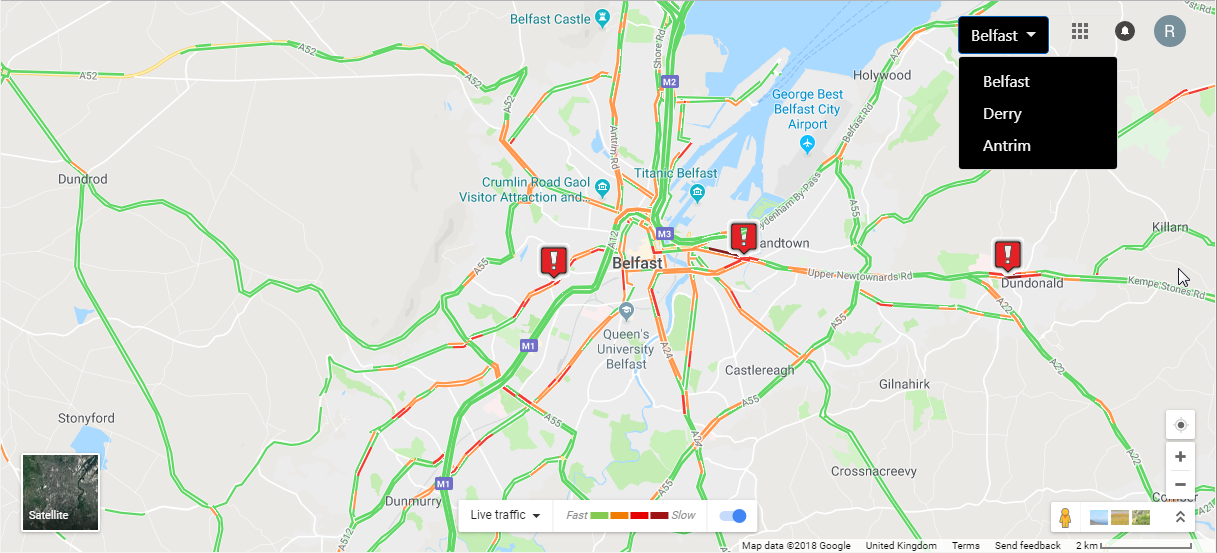
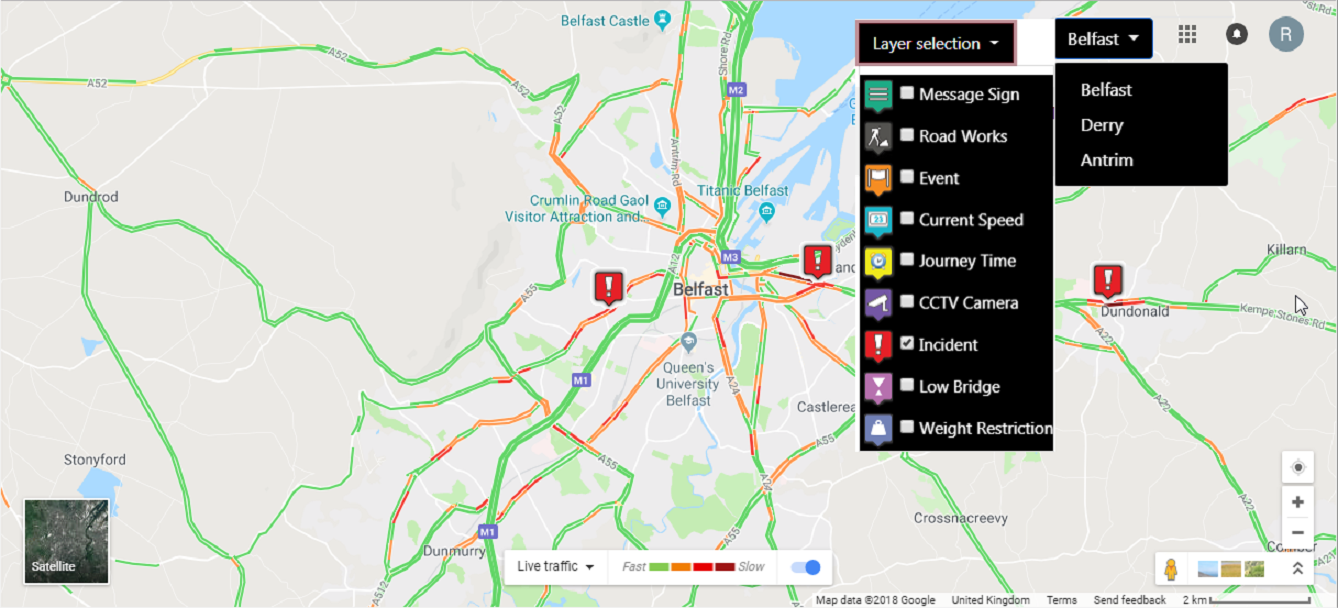
updated

diff --git a/_layouts/default.html b/_layouts/default.html
@@ -64,9 +64,9 @@
         
     <nav class="navbar navbar-expand-lg navbar-light bg-light" style="margin-bottom:1em">
         <a class="navbar-brand" href="index.html">
-            <span class="logo"><span class="primary-colour">traffic</span><span class="font-dark">watch</span></span>
+            <span class="logo"><span class="primary-colour">traffic</span><span class="font-dark">watch</span><span class="font-dark">NI</span></span>
             <br>
-            <span class="font-light">NORTHERN IRELAND</span>
+            <!--<span class="font-light">NORTHERN IRELAND</span>-->
         </a>
         <button class="navbar-toggler" type="button" data-toggle="collapse" data-target="#navbarNav" aria-controls="navbarNav" aria-expanded="false" aria-label="Toggle navigation">
             <span class="navbar-toggler-icon"></span>
@@ -76,51 +76,51 @@
             <li class="nav-item" style="width: 15%">
                 <a class="nav-link" href="index">
                     <i class="fas fa-home"></i>
-                    <h4 class="d-inline">Home</h4>
+                    <h4 class="">Home</h4>
                 </a>
             </li>
             <li class="nav-item" style="width: 15%">
                 <a class="nav-link" href="traffic-news">
                     <i class="fas fa-road"></i>
-                    <h4 class="d-inline">Traffic News</h4>
+                    <h4 class="">Traffic News</h4>
                 </a>
             </li>
             <li class="nav-item" style="width: 15%">
                 <a class="nav-link" href="cameras">
                     <i class="fas fa-camera"></i>
-                    <h4 class="d-inline">Cameras</h4>
+                    <h4 class="">Cameras</h4>
                 </a>
             </li>
             <li class="nav-item" style="width: 15%">
                 <a class="nav-link" href="emergency-news">
                     <i class="fas fa-bell"></i>
-                    <h4 class="d-inline">Emergency News</h4>
+                    <h4 class="">Emergency News</h4>
                 </a>
             </li>
             <li class="nav-item" style="width: 15%">
                 <a class="nav-link" href="roadworks-report">
                     <!--<i class="fas fa-calendar-alt"></i>-->
                     <img src="images/Roadworks.png" style="max-width: 20px; max-height:27px"/>
-                    <h4 class="d-inline">Roadworks</h4>
+                    <h4 class="">Roadworks</h4>
                 </a>
             </li>
             <li class="nav-item" style="width: 15%">
                 <a class="nav-link" href="strangford-lough-ferry">
                     <i class="fas fa-ship"></i>
-                    <h4 class="d-inline">Strangford Lough Ferry</h4>
+                    <h4 class="">Strangford Lough Ferry</h4>
                 </a>
             </li>
             <!--<li class="nav-item"><a class="nav-link" href="travel-information-map">Travel Information Map</a></li>-->
             <li class="nav-item" style="width: 15%">
                 <a class="nav-link" href="journey-times">
                     <i class="fas fa-stopwatch"></i>
-                    <h4 class="d-inline">Journey Times</h4>
+                    <h4 class="">Journey Times</h4>
                 </a>
             </li>
             <li class="nav-item dropdown" style="width: 15%">
                 <a class="nav-link dropdown-toggle" href="#" id="navbarDropdown" role="button" data-toggle="dropdown" aria-haspopup="true" aria-expanded="false">
                     <i class="fas fa-question-circle"></i>
-                    <h4 class="d-inline">About</h4>
+                    <h4 class="">About</h4>
                 </a>
                 <div class="dropdown-menu" aria-labelledby="navbarDropdown">
                    <a class="dropdown-item" href="about-trafficwatch">About Traffic Watch NI</a>

diff --git a/_includes/map.html b/_includes/map.html
@@ -1,6 +1,7 @@
 <script type="text/javascript" src="https://maps.googleapis.com/maps/api/js?key=AIzaSyAO3afmWQdnoj_KY7izMnL83AEkbTQJ0K4"></script>
-<div id="_map_WAR_twniportlet_INSTANCE_L2sK_Map" class="map" style="width: 100%; height: 560px; position: relative; overflow: hidden;"><div style="height: 100%; width: 100%; position: absolute; top: 0px; left: 0px; background-color: rgb(229, 227, 223);">
-    <img id="mainMap" src="images/example_map.png"></img>
+<div id="_map_WAR_twniportlet_INSTANCE_L2sK_Map" class="map" style="width: 100%; height: 645px; position: relative; overflow: hidden; ">
+    <div style="height: 100%; width: 100%; position: absolute; top: 0px; left: 0px; background-color: rgb(229, 227, 223);">
+    <img id="mainMap" src="images/example_map.png"/>
 </div></div>
 
 

diff --git a/_includes/map-key.html b/_includes/map-key.html
@@ -1,4 +1,5 @@
-<div class="container-fluid map-key"> 
+<!--
+<div class="container-fluid map-key">
     <div class="row">
         <div class="col-md-4 col-sm-6">
             <img src="images/map/signs.png">
@@ -17,8 +18,8 @@
             <input type="hidden" name="_selectedTypes" value="on">
             Event
         </div> 
-    <!-- </div>
-    <div class="row"> -->
+    &lt;!&ndash; </div>
+    <div class="row"> &ndash;&gt;
         <div class="col-md-4 col-sm-6">
             <img src="images/map/speed.png">
             <input id="selectedTypes4" name="selectedTypes" type="checkbox" value="CURRENT_SPEEDS">
@@ -74,4 +75,4 @@
             <a href="faq-map">Further Map Information</a>
         </div>
     </div>
-</div>
+</div>-->

diff --git a/index.md b/index.md
@@ -17,7 +17,7 @@ permalink: index
 </p>
 -->
 <div class="row">
-    <div class="alert alert-danger fas fa-exclamation" role="alert" style="min-width:100%; text-align:center">
+    <div class="alert alert-danger fas fa-exclamation" role="alert" style="min-width:100%; background-color:#e21d0b; color:white; text-align:center">
         Storm Ophelia is due to hit the west coast by 17:00 tonight, please visit our emergency news page for more information
     </div>
 </div>
